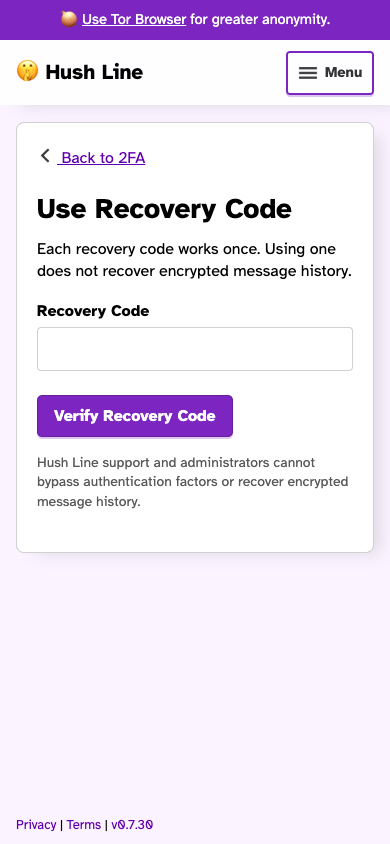
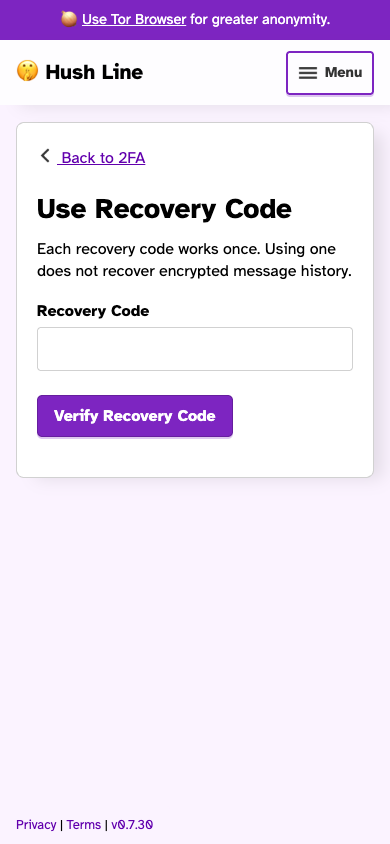
Remove support guidance from login challenges and refresh screenshots

Changed region(s): [[0.0923, 0.5237, 0.8923, 0.6161]]

diff --git a/hushline/templates/verify_2fa_login.html b/hushline/templates/verify_2fa_login.html
@@ -53,5 +53,4 @@
   {% if allow_recovery_code %}
     <p><a href="{{ url_for('verify_recovery_code_login') }}">Use recovery code</a></p>
   {% endif %}
-  <p class="meta">Hush Line support and administrators cannot bypass authentication factors or recover encrypted message history.</p>
 {% endblock %}

diff --git a/hushline/templates/verify_recovery_code_login.html b/hushline/templates/verify_recovery_code_login.html
@@ -20,5 +20,4 @@
     </div>
     <button type="submit">Verify Recovery Code</button>
   </form>
-  <p class="meta">Hush Line support and administrators cannot bypass authentication factors or recover encrypted message history.</p>
 {% endblock %}

diff --git a/tests/test_recovery_codes.py b/tests/test_recovery_codes.py
@@ -458,7 +458,7 @@ def test_password_reset_does_not_bypass_factor_or_unlock_recovery_boundary(
     assert ChatKey.active_for_user_id(user.id) is None
 
 
-def test_factor_guidance_disclaims_server_recovery_without_disclosure(
+def test_factor_challenge_omits_disclosure_and_support_guidance(
     client: FlaskClient, user: User, user_password: str
 ) -> None:
     _credential(user)
@@ -467,9 +467,7 @@ def test_factor_guidance_disclaims_server_recovery_without_disclosure(
     response = client.get(url_for("verify_2fa_login"))
 
     assert "<details>" not in response.text
-    assert "support and administrators cannot bypass" in response.text
-    assert "cannot" in response.text
-    assert "recover encrypted message history" in response.text
+    assert "support and administrators cannot bypass" not in response.text
     csp = response.headers["Content-Security-Policy"]
     assert "default-src 'self'" in csp
     assert "script-src 'self'" in csp
